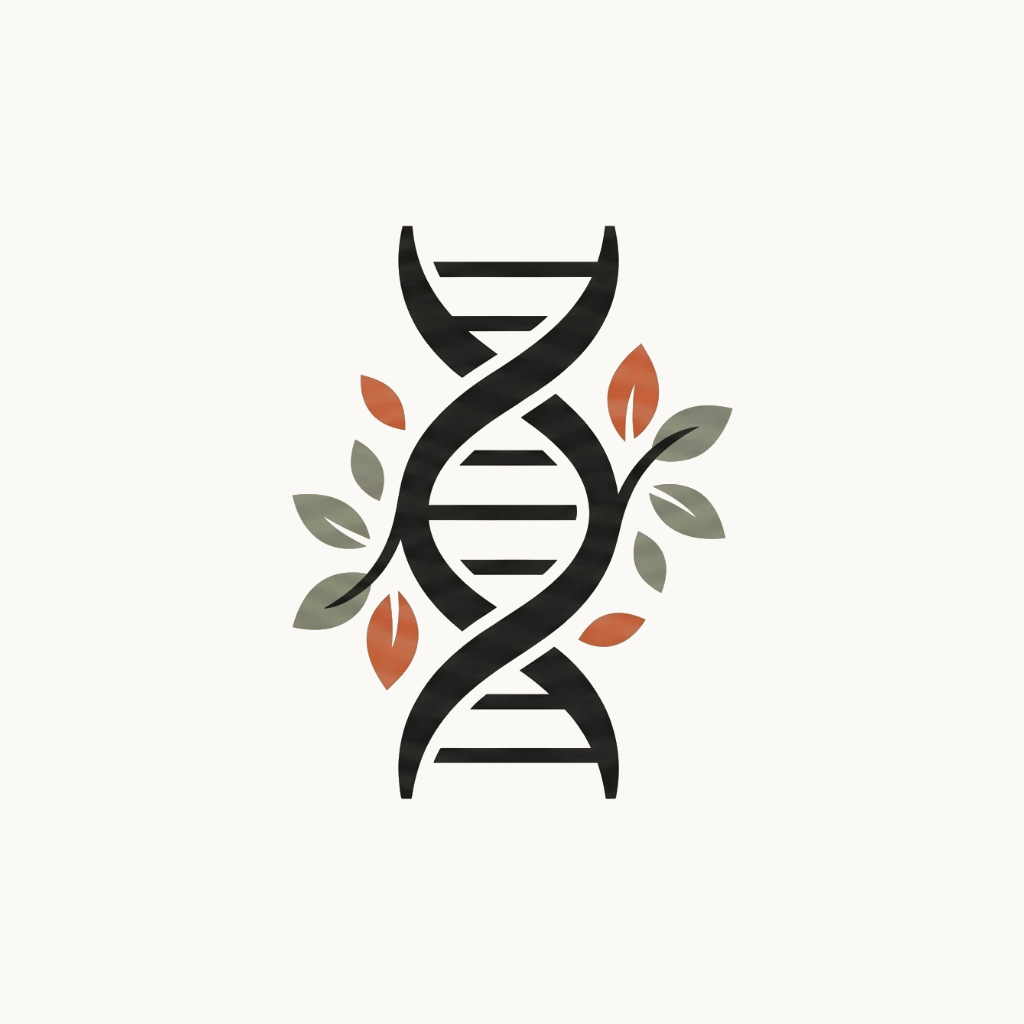
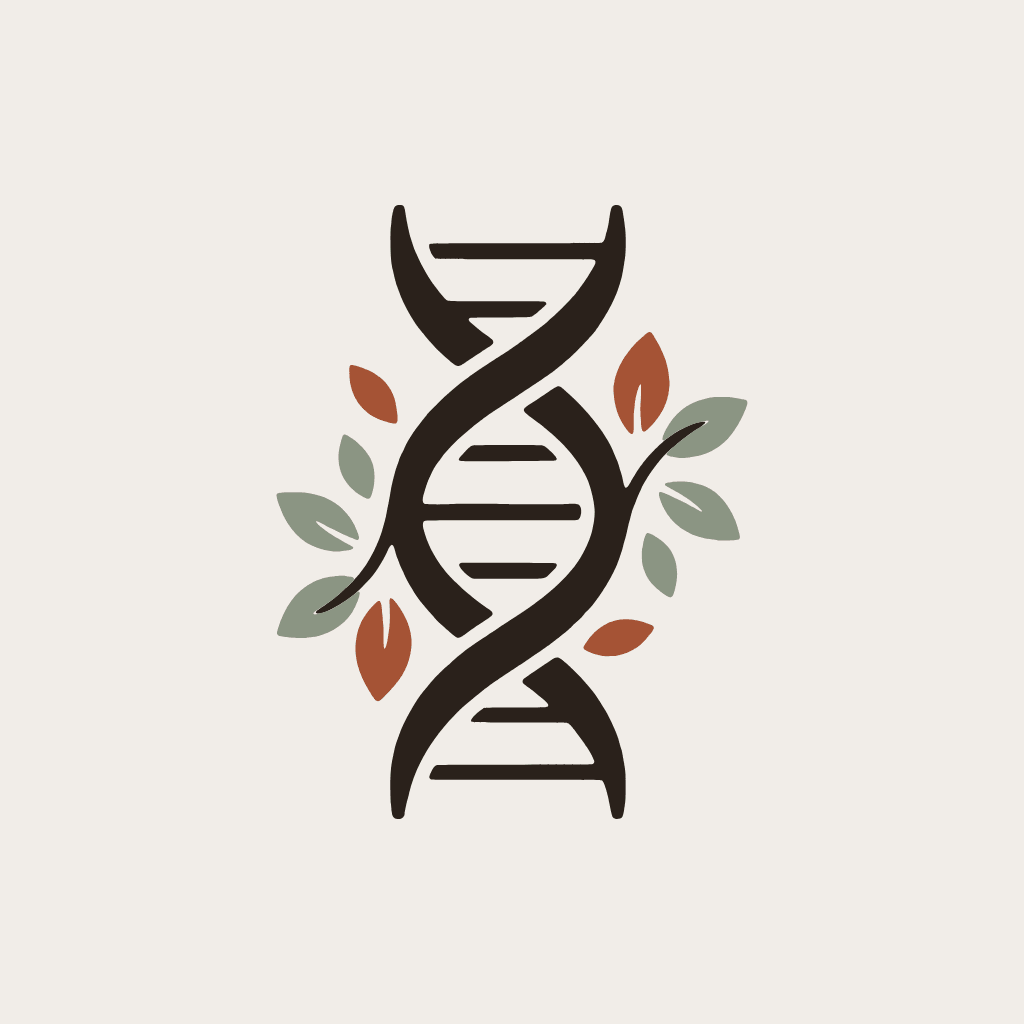
feat(brand): the kit's helix, drawing itself, on every surface — 1.10.0
The owner had Helix and Gital redrawn in Claude Design as one kit, so the
leaves, their placement and the small sizes agree everywhere. Every raster
Helix ships is rendered from its SVGs in Chromium at its exact size: the app
and Android icons, favicon, splash symbols, social card, README lockups, and
new web icons with a manifest and a touch icon.

The in-app mark is no longer a PNG: src/ui/brand-art.ts holds the kit's
paths and BrandMark masks them on react-native-svg, so the strands trace, the
rungs cross, the vines reach and the leaves open on the kit's timeline;
reduced motion draws it at rest. The art is its own chunk on the web, which
keeps the entry under its ceiling (3,345,452 of 3,348,000). The mails show
the hosted mark instead of a letter tile.

Changed region(s): [[0.25, 0.1875, 0.75, 0.8125]]

diff --git a/src/ui/brand-art.ts b/src/ui/brand-art.ts
@@ -1,0 +1,45 @@
+// Generated from the Claude Design kit's animation artifact (2026-09-28);
+// coordinates rounded to a tenth of a unit, which is a hundredth of a point at
+// any size the app draws. Regenerate from the kit, never by hand.
+
+export const VIEW_BOX = "23.54 24.86 468.6 611.38";
+
+/** The two strands; each carries the rung halves that leave it. */
+export const STRAND_A = "M202.1 184.8C198.4 183.1 182.9 169 177.2 162.2C176.2 161.1 174.6 159.3 173.7 158.2C172.8 157.2 170.9 154.9 169.5 153C168.1 151.1 166.1 148.7 165.2 147.6C159.1 140.2 149.5 122.9 146 112.9C145.5 111.4 144.4 108.5 143.7 106.5C142.9 104.5 141.9 101.1 141.4 98.9C140.9 96.7 140 93.1 139.5 90.9C137.8 83.8 137.3 79.6 137 69.9C136.8 62.3 136.9 48.7 137.3 46.9C137.4 46.2 137.6 44 137.8 42.1C138.1 38 138.5 35 139.5 31.3C140.7 26.3 142 25.1 146 25.1C150.3 25.2 150.9 26.1 152 34.4C152.3 36.4 152.9 40 153.4 42.2C153.8 44.5 154.6 48.3 155.1 50.8C155.6 53.2 156.4 56.2 156.9 57.6C157.4 59 158.3 61.8 158.9 63.8C160 67.4 160.2 68.1 163.6 75.6C168 85.8 175.8 99.3 180.6 105.2C181.4 106.2 182.8 108 183.6 109.1C185.7 112 190.9 118.1 192.1 119.1C194.1 120.9 190.8 120.8 241.6 120.8C266.8 120.8 288.1 120.9 289 121C291.4 121.3 292.5 122.5 291.8 124C291.3 124.8 282.9 132.3 280.4 134.1C276.1 137.2 279.8 136.9 246 137C217 137.1 216.6 137.1 215.8 137.6C214.1 138.6 214.5 140.1 216.9 142.2C223.2 147.7 227.7 151.2 234.3 156C241.1 160.9 241 162.5 233.5 167.2C232.2 168 229.2 170 226.8 171.5C224.3 173.1 221.1 175.2 219.5 176.2C217.9 177.2 215.1 179.1 213.1 180.5C206.6 185.2 204.6 185.9 202.1 184.8ZM142.6 635.8C139.3 635 138.4 632.9 137.7 625.1C137.6 623.2 137.4 620.9 137.2 620C137 618.6 136.8 610.8 136.7 602.6C136.7 590.2 137.5 581.5 139.8 572C140 570.8 140.6 568.3 141 566.3C141.5 564.1 142.3 561.1 143.2 558.9C143.9 556.8 145.1 553.5 145.9 551.4C150.4 539 161.6 519 169.3 509.5C170.2 508.5 172.8 505.3 175.1 502.4C179.6 496.7 188.9 487.2 192.5 484.4C193.5 483.6 195.3 482.1 196.4 481C200.5 477.1 211.7 467.9 215.8 465.2C217.2 464.2 219.4 462.6 220.8 461.6C222.1 460.6 225 458.6 227.4 457.1C229.7 455.6 232.5 453.8 233.5 453.1C236.4 451.3 245.8 445 248.2 443.3C249.4 442.5 251.5 441.1 252.9 440.2C267 431.4 282.8 420.2 291.7 412.8C292.8 411.9 294.8 410.2 296.2 409.1C306.4 400.5 311.2 395.6 319.8 385C326.9 376.4 334.8 360.6 337.3 350.3C341.1 334.6 341 326.7 337 310.9C335.2 303.6 333 297.7 330.5 293.2C329.7 291.9 328.4 289.6 327.6 288.1C322.6 278.6 311.8 265.5 302.4 257.3C300.9 256 297.8 253.3 295.6 251.3C290.7 246.7 287.6 244.3 280.2 238.9C266.5 228.8 266.5 229.2 277.8 221.8C279.7 220.6 285.8 216.5 291.3 212.8C304.9 203.6 303.8 203.8 309.2 208.3C325.3 221.8 343 242.1 350.9 255.9C351.3 256.6 352.3 258.2 353.1 259.5C354.8 262.2 358 268.7 359.3 272.1C359.8 273.4 360.9 275.9 361.7 277.7C362.7 279.7 363.6 282.2 364.1 284.2C364.6 285.9 365.5 289.2 366.2 291.3C366.9 293.5 367.8 296.8 368.1 298.6C370 308.2 371.6 308.7 375.8 300.9C376.5 299.5 377.8 297.2 378.7 295.8C379.7 294.3 381 292.1 381.6 290.9C382.9 288.6 388.5 281 391 278.2C391.7 277.4 393.2 275.6 394.3 274.4C397.2 271 407.6 260.9 410.4 258.7C423.3 249 435.8 242.7 445.6 241.1C452.4 240 451.5 241.6 442.1 248C434.2 253.2 425.6 259.7 420 264.5C419.1 265.3 417.5 266.6 416.5 267.4C406.7 275.3 391.3 296 386 308.4C385.3 309.9 384.2 312.5 383.4 314.1C382.7 315.8 381.7 318.1 381.3 319.3C380.9 320.5 380.1 322.6 379.5 323.9C378 327.3 377.4 329.2 376.1 334.2C375.5 336.7 374.6 340 374.1 341.8C373.7 343.5 372.9 346.8 372.4 349.2C371.9 351.7 371 355.3 370.4 357.2C369.8 359.2 368.9 362.3 368.5 364.1C367.4 368.9 363.5 380.5 361.6 384.6C357.8 393.1 351.8 403.9 347.4 410.1C346.1 411.9 344.2 414.7 343 416.4C339 422.1 335.9 425.9 332 429.6C331 430.6 329.5 432.3 328.6 433.4C326.1 436.4 324.6 437.8 322 440C320.6 441.1 319 442.6 318.3 443.4C316.7 445.3 311.4 450 307.2 453.2C305.4 454.7 302.4 457 300.6 458.5C298.9 459.9 296.4 461.7 295.1 462.6C293.9 463.4 292.3 464.6 291.5 465.1C289.6 466.5 283.4 470.8 274.6 476.7C270.6 479.4 266.4 482.3 265.1 483.1C263.9 484 261.4 485.6 259.6 486.7C257.8 487.8 253.7 490.6 250.5 492.8C247.3 495 243.6 497.5 242.4 498.3C238.1 501.2 228.9 508.1 224.6 511.6C210.1 523.4 207.8 525.4 199.5 533.9C178 555.8 161.1 584.9 155.5 610.1C155.1 612 154.3 615.2 153.7 617.2C152.8 620.5 151 629.4 151 630.5C151 634.4 147.1 636.9 142.6 635.8Z";
+export const STRAND_B = "M202.9 455.4C202.4 455.2 201.8 454.9 201.6 454.7C199.3 453 195.3 449.5 192.3 446.9C184.6 440 183.6 439 181.8 437C180.8 435.8 178.7 433.5 177.2 431.8C175.6 430.1 173.7 427.9 172.9 426.9C172.1 425.9 170.5 424 169.5 422.8C165.5 418.1 162 413.2 159.2 408.4C158.4 406.9 157.1 404.8 156.5 403.9C155.3 402.1 152 395.9 151.1 393.8C150.9 393.1 149.7 390.5 148.5 388C147.3 385.5 146 382.4 145.6 381.2C145.1 380.1 144.3 377.8 143.6 376.1C143 374.5 142 371.4 141.5 369.3C139.3 360.9 137.7 361.1 133.6 370C128.9 380.3 121 392.5 114.9 398.8C113.2 400.5 110.4 403.5 108.5 405.4C96 418.8 67.6 434.8 63 431C61.8 430.1 63 429 70.5 424C78.3 418.8 83.9 414.3 90 408.5C92.4 406.2 95.3 403.6 96.4 402.7C97.5 401.8 98.9 400.3 99.6 399.5C100.3 398.6 101.6 397 102.6 396C111.6 386.1 119.4 373.2 125.4 358.1C127.5 352.8 128 351.1 129.6 345.4C130.1 343.6 130.9 340.7 131.4 339C131.9 337.3 132.5 334.5 132.8 332.8C133.1 331 133.6 328.2 134 326.4C134.9 322.1 136 316.5 137.2 309.1C137.8 305.8 138.7 301.6 139.1 299.8C139.6 297.9 140.6 294.3 141.2 291.8C141.9 289.2 143.1 285.3 144 283.1C144.8 280.8 145.5 278.9 145.5 278.8C145.5 278.1 147.3 273.8 148.5 271.8C149.1 270.6 150.1 268.5 150.7 267.1C154.5 258.3 162.9 245.9 172.8 234.2C175.9 230.5 189.8 216.6 192.5 214.4C193.7 213.4 195.4 211.9 196.4 211C198.9 208.5 207.3 201.6 210 199.7C211.3 198.8 213.4 197.3 214.8 196.2C217.5 194.2 224.5 189.4 230.2 185.6C232.2 184.3 235.3 182.2 237.1 181C238.9 179.8 241.7 178.1 243.2 177.1C244.8 176.2 247.6 174.3 249.5 173.1C251.4 171.8 254 170.2 255.2 169.4C257.6 167.9 272.3 157.3 280.7 151C286.5 146.6 290.4 143.5 294.4 139.9C295.8 138.6 298.2 136.5 299.8 135.2C304.6 131 314.6 121 318.5 116.2C319.2 115.4 320.4 114 321.1 113.3C321.7 112.6 323.3 110.5 324.6 108.7C325.9 106.9 327.9 104.1 329 102.6C332 98.5 337.8 89.1 340.2 84.4C341.3 82.1 341.1 80.5 339.4 79.6C338.7 79.1 334.6 79.1 260.6 79C182.6 78.9 182.6 78.9 181.6 78.3C178.5 76.7 174.2 66.6 175.6 64.5C176.5 63 170.3 63.1 261.8 63C346.1 62.9 346.1 62.9 347.3 62.3C349.1 61.4 349.8 60.2 350.9 55.8C351.2 54.3 351.9 52 352.3 50.6C353.2 47.4 353.9 44.1 354.6 39C356.5 26.7 357 25.6 361 25.1C364.7 24.7 367 26.3 367.7 30C368.2 32.3 370 44.1 370 45C370 45.5 370.2 47.4 370.5 49.2C371.2 54.3 371.2 70.6 370.5 76C369.2 84.9 367.6 94.5 367 96.9C365.6 102.1 362.9 110.5 362 112.6C359.3 119 357.6 122.6 356.2 125.2C355.3 126.8 354.2 128.9 353.7 129.8C351.7 133.8 343.8 146.4 340.9 150.1C335.9 156.5 318.7 174.5 313.5 178.6C312.3 179.6 310.8 180.8 310.1 181.5C308.7 182.8 303.8 186.8 299.8 189.9C295.4 193.2 286.3 199.5 274.1 207.6C272.5 208.6 268.2 211.5 264.7 213.8C261.2 216.2 255.8 219.7 252.9 221.6C235.5 232.9 230.4 236.5 218.5 246C205.8 256.1 193.2 268.6 187.3 277C186.7 277.9 185.5 279.5 184.6 280.6C181.3 285 178.9 289.1 176.8 294C176 295.8 175 298.1 174.5 299C173.6 301 169.9 312.6 169.4 315.1C168.6 319.2 169 321.4 170.8 322.4C172 323.1 190.3 323.2 196.9 322.6C201.2 322.2 240.9 322.2 250.2 322.6C258.9 323 307.2 323 311.6 322.6C322.2 321.7 324.9 322.3 326.1 325.8C327.4 329.3 326.4 335.7 324.4 337.5C322.7 339 325.4 338.9 279.2 338.8C227.2 338.7 231.9 338.7 199.3 338.8C168.9 339 170.6 338.9 169.6 340.8C169 342 169 344.9 169.7 347.4C173.9 362.6 179.8 374.3 190.3 388C197.8 397.8 216.6 414.8 230.8 424.5C236.8 428.6 237.6 429.2 238.1 430.4C239.3 432.9 238.3 433.9 227.7 440.7C221.2 444.9 217.6 447.4 214.9 449.4C207.4 455.1 205.2 456.2 202.9 455.4ZM361.1 635.9C361 635.8 360.6 635.7 360.2 635.6C357.7 635.1 357.1 633.4 354.6 619.9C352.8 610 349.9 600.6 348.2 598.7C346.6 597 354.6 597.1 261.8 597C198.3 596.9 177.7 596.8 177.2 596.6C174.9 595.5 175 593.8 177.5 588.9C179.8 584.2 180.9 583 183.4 582.2C183.8 582 212.4 581.9 260.3 581.9C314.4 581.8 336.7 581.7 337.4 581.5C339 581.1 339.8 580 339.7 578.5C339.5 577.2 336.6 571.1 335 568.8C334.5 568 333.2 566 332.1 564.2C327.7 557.3 316.9 543.1 315 541.8C312.5 540 317.1 540.1 265.5 540C214.1 539.9 217.5 540 217.1 538.3C216.6 536.4 223 529.8 228.8 526.2C230.6 525.1 229.4 525.1 261.5 525C294.6 524.9 292.9 524.9 293.7 523.5C294.5 522 293.1 520.3 286.8 515.1C284.3 513.2 281.4 510.7 280.1 509.6C278.9 508.6 276.6 506.8 275 505.7C268.4 500.9 267.9 500.4 268.5 498.5C269 496.7 270.6 495.5 289.1 483.1C291.5 481.6 294.6 479.4 296.2 478.3C302.4 473.8 304.1 474.1 311.8 481.1C313.1 482.3 315.2 484.3 316.5 485.4C322.6 490.7 334.1 503.2 338.5 509.5C339.7 511.1 341.5 513.6 342.5 515C344.2 517.4 348.3 523.8 350.6 527.8C353.1 531.9 358.2 542.3 359.9 546.5C362.9 553.8 363.4 555.2 364.2 558.4C364.6 560 365.4 562.8 366 564.6C367.4 569 367.5 569.5 369.3 580.4C370.9 589.9 370.9 589.9 370.9 603.2C370.9 614.9 370.8 617 370.4 619.6C370.2 621.3 369.7 624.5 369.4 626.8C368.3 633.5 367.7 634.9 365.2 635.6C364 636 361.8 636.1 361.1 635.9Z";
+/** The two rungs that touch neither strand's outline. */
+export const RUNGS_SOLO = "M207.2 279.8C203.5 279 204.1 277.7 210.6 271C216.1 265.5 216.8 264.9 218.9 264.4C221 263.8 285.8 263.8 288.1 264.3C290.4 264.9 292.1 266.1 296.7 270.6C302.5 276.3 303.5 278.1 301.2 279.4C300.4 279.9 209.8 280.3 207.2 279.8ZM218.8 396.6C214.7 395.5 205.2 386.1 205.2 383.2C205.2 382.2 206.5 381.3 208.1 381.1C211.2 380.8 300.3 381.1 301.1 381.5C303.9 382.9 302.4 385.7 295.3 392.1C289.6 397.4 293.8 396.9 254.3 396.9C224.8 397 219.9 396.9 218.8 396.6Z";
+
+export type Stroke = { d: string; width: number; length: number };
+
+/** Left strand's mask draws strand A, the right one strand B. */
+export const STRAND_DRAW: readonly Stroke[] = [{ d: "M138 8C138 13.3 137.7 29.7 138 40C138.3 50.3 137.7 58.3 140 70C142.3 81.7 146.2 97.5 152 110C157.8 122.5 165.3 134.2 175 145C184.7 155.8 199.2 166.7 210 175C220.8 183.3 229.2 186.7 240 195C250.8 203.3 261.7 213.8 275 225C288.3 236.2 307.8 249.5 320 262C332.2 274.5 341.3 287 348 300C354.7 313 359.3 326.7 360 340C360.7 353.3 357.8 367.5 352 380C346.2 392.5 336.2 404.2 325 415C313.8 425.8 300.8 434.5 285 445C269.2 455.5 246.7 466.8 230 478C213.3 489.2 197 500 185 512C173 524 164.5 537 158 550C151.5 563 148.5 577.5 146 590C143.5 602.5 143.3 615 143 625C142.7 635 143.8 645.8 144 650", width: 96, length: 827 }, { d: "M357 8C357.2 13.3 357.5 29.7 358 40C358.5 50.3 361.3 58 360 70C358.7 82 355.7 98.7 350 112C344.3 125.3 336 138.7 326 150C316 161.3 304.3 169.5 290 180C275.7 190.5 255.5 202.2 240 213C224.5 223.8 209.2 233.8 197 245C184.8 256.2 174.5 267.2 167 280C159.5 292.8 153.8 308.3 152 322C150.2 335.7 152.7 349.3 156 362C159.3 374.7 164.7 387 172 398C179.3 409 188.7 418 200 428C211.3 438 225.8 448 240 458C254.2 468 271.3 478.5 285 488C298.7 497.5 312 505 322 515C332 525 339.2 535.5 345 548C350.8 560.5 354.8 577.2 357 590C359.2 602.8 357.8 615 358 625C358.2 635 358 645.8 358 650", width: 96, length: 818 }];
+/** Where the strands' masks stay dark, so a rung draws only with its own stroke. */
+export const RUNG_GAPS: readonly (readonly [number, number, number, number])[] = [[172,58.5,170,23],[192,117,94,23],[200,259.5,106,25],[171,317.5,159,24],[200,375.5,106,27],[195,520.5,110,23],[175,577.5,166,23]];
+export const RUNG_DRAW: readonly Stroke[] = [
+  { d: "M172 70H342", width: 24, length: 170 },
+  { d: "M192 128.5H286", width: 24, length: 94 },
+  { d: "M200 272H306", width: 26, length: 106 },
+  { d: "M171 329.5H330", width: 25, length: 159 },
+  { d: "M200 389H306", width: 28, length: 106 },
+  { d: "M195 532H305", width: 24, length: 110 },
+  { d: "M175 589H341", width: 24, length: 166 },
+];
+/** The left vine is drawn from strand B, the right one from strand A. */
+export const VINE_DRAW: readonly Stroke[] = [{ d: "M152 345C151 346.2 149.7 346.2 146 352C142.3 357.8 136.8 371.2 130 380C123.2 388.8 113.3 398 105 405C96.7 412 88.3 416.8 80 422C71.7 427.2 59.2 433.7 55 436", width: 44, length: 136 }, { d: "M352 335C353.7 332.2 357 326.3 362 318C367 309.7 374 294.3 382 285C390 275.7 400.3 268.5 410 262C419.7 255.5 431.3 250 440 246C448.7 242 458.3 239.3 462 238", width: 44, length: 152 }];
+
+export type Leaf = { d: string; fill: "clay" | "sage"; pivot: readonly [number, number]; turn: 1 | -1 };
+
+/** In the order they open; `turn` is the side they swing in from. */
+export const LEAVES: readonly Leaf[] = [
+  { d: "M348.9 473.8C348.6 473.8 346.7 473.4 344.8 473C340 472 336.6 470.8 333 469C328 466.4 327.9 465.9 331.5 460.6C346.4 438.2 368.5 431.8 394.6 442.2C401.2 444.8 400.8 446.1 390.2 458.1C383.3 465.9 373.4 471.3 361.9 473.6C360.1 474 350.3 474.1 348.9 473.8Z", fill: "clay", pivot: [328,466.4], turn: -1 },
+  { d: "M122.6 518C121.3 517.1 120.6 516.1 118.2 512.5C104.8 491.8 100.1 474.9 102.8 456.8C104.8 443.7 110 433.7 120 423.4C124 419.3 124.8 418.8 126.4 419.4C127.3 419.8 128.5 425.3 128.5 429.2C128.5 430 128.7 431.6 128.9 432.9C129.1 434.1 129.2 436.1 129.3 437.2C129.3 438.4 129.4 440.5 129.6 441.9C129.9 443.6 130 446.8 130 452.6C130 457.2 130.1 462 130.2 463.3C130.8 469.8 132.7 466.1 134.4 455.1C134.7 452.8 135.2 449.5 135.5 447.8C135.8 446 136.1 442.3 136.2 439.5C136.4 433.5 136.4 433.9 136.1 425C135.9 417 136 416.2 137.5 416.3C140.4 416.3 150.2 430.8 153.9 440.4C158.1 451.4 158.9 460.4 156.8 471.2C153.5 487.7 146.9 498.5 130.3 514.5C125.7 519 124.6 519.5 122.6 518Z", fill: "clay", pivot: [140.4,416.3], turn: 1 },
+  { d: "M40.8 455.7C40.1 455.6 38.3 455.4 36.6 455.3C24.1 454.2 22.9 453.4 24.5 448.1C31.6 424.2 43.2 408.6 60.2 400.2C65.5 397.5 74.1 395 78.1 395C78.6 395 80.1 394.8 81.2 394.5C84 393.9 91 393.8 93.5 394.4C94.4 394.6 96 394.9 97.1 395C102.2 395.6 101.8 398.6 96 403C95 403.8 92.3 406.3 90 408.5C87.7 410.7 85.2 413.1 84.4 413.7C83.5 414.3 82.3 415.3 81.6 415.9C78.2 418.8 69.4 424.9 64.8 427.6C61.2 429.7 59.4 431.7 60.7 432.2C62.9 433 75.5 429.1 80.5 426C81.6 425.3 83.2 424.4 84.2 423.9C87.5 422.2 97.5 415.4 101.9 411.7C105.3 408.8 106.9 409.4 106.1 413.1C105.1 418.1 101.3 426.7 97.9 431.7C89.6 444.1 73 453.8 57.6 455.1C56.7 455.2 54.9 455.4 53.8 455.6C51.4 456 42.7 456.1 40.8 455.7Z", fill: "sage", pivot: [102.2,395.6], turn: 1 },
+  { d: "M78.6 369.5C58.6 366.9 44.9 358.2 34.3 341.2C28.9 332.7 22.4 315.4 23.7 313C24.6 311.4 27.8 311 39.8 311C49.7 311 50.1 311 57.1 312.2C79 315.7 96.3 329.5 103.7 349.6C105.7 354.8 106 356.7 105.1 357.8C104.2 358.8 104 358.7 90.4 352.8C87.1 351.3 73.4 344.6 67.5 341.4C62.6 338.8 61.6 339.3 64.7 342.7C67.2 345.4 77.3 352.7 83.4 356.2C89.2 359.5 93 361.6 95.7 363C99.7 365 100.6 366 99.4 367.1C98.4 368 96.4 368.5 88.1 369.5C86.1 369.8 80.7 369.8 78.6 369.5Z", fill: "sage", pivot: [100.6,366], turn: 1 },
+  { d: "M413.3 414.8C409.8 413.1 402.5 407.5 398.7 403.6C393 397.7 390.2 392.4 387.8 383.5C386.9 380.1 386.7 370.1 387.4 366.9C387.6 365.9 387.9 364.2 388.1 363C389.1 357.1 391 351.9 392.4 351.4C394 350.7 399.8 353.8 406.5 358.9C420.9 369.9 425.6 388.2 419.5 409.1C417.6 415.3 416.6 416.3 413.3 414.8Z", fill: "sage", pivot: [394,350.7], turn: -1 },
+  { d: "M110.9 316.1C94.8 307.7 85.2 293.2 85.2 276.8C85.2 271.1 85.9 266.7 88 258.9C89.6 253.2 90.4 252.5 94.1 254.5C104.6 260 115.8 272.4 119 281.9C121.7 290 121.7 301.7 118.9 310.9C116.7 318.1 115.9 318.6 110.9 316.1Z", fill: "sage", pivot: [115.9,318.6], turn: 1 },
+  { d: "M462 358.6C461.1 358.4 459.1 358.2 457.6 358C438.3 356.2 421.4 346.5 411.9 332C407.9 325.8 404 316.2 404 312.6C404 310.2 405.3 310 409.2 311.7C410.4 312.3 412.5 313.2 413.9 313.7C415.2 314.3 417 315.1 417.8 315.5C418.6 315.9 420.1 316.6 421.1 317C423.4 317.9 431.4 321.9 433.6 323.2C434.4 323.7 436.2 324.8 437.6 325.5C439 326.2 440.8 327.3 441.7 327.8C448.8 332.1 448.5 330 441.1 323.7C435.1 318.5 424.4 311.6 416.5 307.6C410.1 304.4 409.2 303.7 410.3 302.4C411.9 300.3 428.6 299.3 436.2 300.9C452.4 304.2 462.3 310.4 471 322.5C477.1 331.1 481.3 340.5 483.9 351.6C485.2 357.2 485 357.6 480.4 358.5C477.6 359.1 464.8 359.2 462 358.6Z", fill: "sage", pivot: [404,310.2], turn: -1 },
+  { d: "M423 276.5C413.5 275.4 410.7 274.3 411.8 272.1C412.3 271.3 415.3 268.2 417 267C417.6 266.5 419 265.3 420.1 264.4C423 261.9 429.2 257 431.8 255.2C432.4 254.8 433.4 254 434 253.5C435.4 252.3 443.5 246.9 446 245.5C456.4 239.4 455.9 238.3 444 241.3C437.3 242.9 423.7 249 419.4 252.2C418.4 253 416.7 254.2 415.5 255C414.3 255.8 412.6 257 411.7 257.7C406.6 261.6 406.1 258.2 410.6 249.3C419 232.6 431.9 222.1 449.4 218C457.5 216.1 457.1 216.1 466.6 216.1C474.1 216.1 475.6 216.2 477.2 216.6C478.2 216.8 479.4 217 479.9 217C480.4 217 481.9 217.2 483.2 217.5C484.5 217.8 486.7 218.2 487.9 218.4C493.3 219.3 493.4 221.3 488.3 232.7C476.1 259.8 459.9 273 435.1 276C433.9 276.2 432.1 276.4 431.1 276.5C429.1 276.8 425.3 276.8 423 276.5Z", fill: "sage", pivot: [410.7,274.3], turn: -1 },
+  { d: "M375.7 252.5C374.1 251.5 370.5 246.7 367.8 242.2C362.2 232.8 359.6 223.2 358.8 209.9C358.4 202.7 361.7 190.6 366.3 182.4C370.8 174.3 378.4 164.4 384 159.6C385.5 158.4 387.7 156.3 389.1 155.1C394.4 150.2 395.9 150.3 399 155.6C399.7 156.9 401.1 159.3 402.2 161.1C406.4 168.4 410.4 177.4 411.7 182.9C412.7 186.7 414 193.8 414 195.3C414 195.9 414.2 197.7 414.4 199.4C414.7 201.8 414.7 202.8 414.5 204.6C414.3 205.9 414.1 208 414 209.4C412.9 221.5 406.1 235.1 396 245.3C391.2 250.1 389.8 251.1 388.2 250.2C387.2 249.7 386.2 245.6 386.2 241.5C386.2 240.4 386.1 238.3 385.9 236.6C385.5 233.2 385.4 225.7 385.8 222.5C386.1 219.9 386.5 205.1 386.2 204.2C385.2 200.1 380.7 214.8 379.9 224.6C379.8 225.7 379.6 227.6 379.4 228.7C379.1 230.3 379 233.2 379 239.8C379 250.2 378.9 251.5 378 252.4C377.3 253.1 376.6 253.2 375.7 252.5Z", fill: "clay", pivot: [376.6,253.2], turn: -1 },
+  { d: "M138.6 242.1C115.4 237.9 100.3 223.2 96.7 201.4C96 197.2 95.7 187 96.3 185.7C97.2 183.5 99.8 183.8 108.5 186.9C117.4 190.1 121.8 192.6 129.3 198.9C133.8 202.6 139.2 211.5 141.2 218.5C142.4 222.8 144 233.1 144 236.9C144 242.1 143.2 242.9 138.6 242.1Z", fill: "clay", pivot: [143.2,242.9], turn: 1 },
+];

diff --git a/src/ui/brand.tsx b/src/ui/brand.tsx
@@ -1,58 +1,164 @@
-/** Helix brand mark — the botanical DNA-helix symbol, theme-aware. Uses the
- *  charcoal artwork on light surfaces and the cream artwork on dark / gradient. */
+/**
+ * Helix's mark, the botanical helix, drawn as vectors so it is sharp at any
+ * size and can draw itself on the brand kit's timeline (2026-09-28): the two
+ * strands trace down under widening masks, the rungs cross them in turn, the
+ * vines reach out, then the leaves open from their stems one by one. Once the
+ * intro ends every mask is dropped, so the resting mark is the kit's exact
+ * drawing. The ink follows the theme and the clay leaves the palette's
+ * accent, as the kit's dark, petrol and servi marks do; `onGradient` inks it
+ * for a dark ground whatever the scheme. Reduced motion draws it at rest.
+ *
+ * The drawing, 18 KB of path data, is its own chunk on the web: the entry had
+ * 14 KB of room left under its ceiling (measured 2026-09-28), and a mark that
+ * draws itself in anyway loses nothing by arriving a frame later.
+ */
 
-import { View } from "react-native";
-import { Image } from "expo-image";
-import { useTheme } from "./theme";
+import { useEffect, useId, useState } from "react";
+import { Easing, View } from "react-native";
+import Svg, { Defs, G, Mask, Path, Rect } from "react-native-svg";
 
-const SYMBOL_LIGHT = require("../../assets/brand/symbol-light-t.png");
-const SYMBOL_DARK = require("../../assets/brand/symbol-dark-t.png");
+import type { Stroke } from "./brand-art";
+import { useReducedMotion } from "./motion";
+import { PALETTES, useTheme } from "./theme";
+
+/** The drawing's width over its height, known before its chunk arrives. */
+export const MARK_ASPECT = 468.6 / 611.38;
+
+type Art = typeof import("./brand-art");
+let art: Art | undefined;
+let pending: Promise<Art> | undefined;
+
+function useArt(): Art | undefined {
+  const [, setArrived] = useState(art !== undefined);
+  useEffect(() => {
+    if (art) return;
+    let live = true;
+    void (pending ??= import("./brand-art").then((module) => (art = module))).then(() => live && setArrived(true));
+    return () => {
+      live = false;
+    };
+  }, []);
+  return art;
+}
+
+const easeOut = Easing.bezier(0, 0, 0.58, 1);
+const SAGE = "#8B9583";
+/** What a mask shows through, and what it hides. */
+const REVEAL = "#FFFFFF";
+const HIDE = "#000000";
+
+/** Milliseconds from the first frame, as the kit's timing table gives them. */
+const TIMELINE = {
+  strands: { at: 0, for: 900 },
+  rungs: { at: 180, every: 60, for: 300 },
+  vines: { at: 420, for: 360 },
+  leaves: { at: 900, every: 70, for: 220, turn: 8 },
+} as const;
 
 /**
- * The artwork's own proportions, and why `size` is a HEIGHT.
- *
- * The mark is taller than it is wide. It used to be delivered on a 1024x1024
- * canvas with the ink centred inside it — measured, 606x789 of ink with 210px
- * of transparency down each side and 118 across the top — and `contentFit`
- * honoured that transparency as though it were part of the drawing. A caller
- * asking for 40 got a mark 30.8pt tall sitting in a 40pt box, so it read small
- * against the heading it leads and carried 9pt of invisible margin into the
- * gap beside it.
- *
- * The canvas is now the mark: the padding is cropped, losslessly — every ink
- * pixel is byte-identical and the resolution is untouched at 606x789, which is
- * still five times what a 48pt mark needs on a 3x display. So the box can hold
- * the real ratio, `size` can mean the height it always looked like it meant,
- * and the width follows instead of being guessed at.
+ * Milliseconds into the intro, or null once it is over. React state rather
+ * than an animated value: a mask's stroke is not a prop the native driver can
+ * reach, and under two seconds of re-renders on one small tree costs nothing.
  */
-const MARK_ASPECT = 606 / 789;
+function useIntro(duration: number, ready: boolean): number | null {
+  const reducedMotion = useReducedMotion();
+  const [elapsed, setElapsed] = useState<number | null>(0);
+  useEffect(() => {
+    if (reducedMotion || !ready) return;
+    const start = Date.now();
+    let frame = 0;
+    const tick = () => {
+      const now = Date.now() - start;
+      if (now >= duration) return setElapsed(null);
+      setElapsed(now);
+      frame = requestAnimationFrame(tick);
+    };
+    frame = requestAnimationFrame(tick);
+    return () => cancelAnimationFrame(frame);
+  }, [reducedMotion, duration, ready]);
+  return reducedMotion ? null : elapsed;
+}
+
+function DrawMask({ id, stroke, drawn, gaps }: { id: string; stroke: Stroke; drawn: number; gaps?: Art["RUNG_GAPS"] }) {
+  return (
+    <Mask id={id}>
+      <Path
+        d={stroke.d}
+        fill="none"
+        stroke={REVEAL}
+        strokeWidth={stroke.width}
+        strokeLinejoin="round"
+        strokeDasharray={[stroke.length, stroke.length]}
+        strokeDashoffset={stroke.length * (1 - drawn)}
+      />
+      {gaps?.map(([x, y, width, height]) => <Rect key={y} x={x} y={y} width={width} height={height} fill={HIDE} />)}
+    </Mask>
+  );
+}
 
 export function BrandMark({ size = 56, onGradient = false }: { size?: number; onGradient?: boolean }) {
-  const { scheme } = useTheme();
-  const source = onGradient || scheme === "dark" ? SYMBOL_DARK : SYMBOL_LIGHT;
+  const { palette, paletteId } = useTheme();
+  const drawing = useArt();
+  const { leaves } = TIMELINE;
+  const elapsed = useIntro(leaves.at + leaves.every * ((drawing?.LEAVES.length ?? 1) - 1) + leaves.for, drawing !== undefined);
+  // `useId` answers with colons, which a `url(#…)` reference cannot hold.
+  const id = useId().replace(/[^a-zA-Z0-9]/g, "");
+  const progress = (start: number, duration: number) => (elapsed === null ? 1 : easeOut(Math.min(1, Math.max(0, (elapsed - start) / duration))));
+  const ink = onGradient ? PALETTES[paletteId].dark.textStrong : palette.textStrong;
+  const clay = PALETTES[paletteId].light.primary;
   const width = Math.round(size * MARK_ASPECT);
+  const box = { width, height: size };
+  const hidden = { "aria-hidden": true, accessible: false, accessibilityElementsHidden: true, importantForAccessibility: "no-hide-descendants", pointerEvents: "none" } as const;
+  if (!drawing) return <View {...hidden} style={box} />;
+  const { LEAVES, RUNG_DRAW, RUNG_GAPS, RUNGS_SOLO, STRAND_A, STRAND_B, STRAND_DRAW, VIEW_BOX, VINE_DRAW } = drawing;
+  const { strands, rungs, vines } = TIMELINE;
+  const tracing = elapsed !== null;
   return (
-    // The hiding lives on a wrapper because it cannot live on the image.
-    // `expo-image` renders its own web `<img>` and forwards only `alt`, `src`
-    // and `style` — every accessibility prop passed to it is dropped, so the
-    // mark's `accessible={false}` never reached the DOM and the art sat in the
-    // accessibility tree as an unnamed node. `aria-hidden` on an ancestor
-    // removes its subtree per ARIA, and the two native props do the same on
-    // iOS and Android.
-    <View
-      aria-hidden
-      accessible={false}
-      accessibilityElementsHidden
-      importantForAccessibility="no-hide-descendants"
-      pointerEvents="none"
-      style={{ width, height: size }}
-    >
-      <Image
-        alt=""
-        source={source}
-        style={{ width, height: size }}
-        contentFit="contain"
-      />
+    <View {...hidden} style={box}>
+      <Svg width={width} height={size} viewBox={VIEW_BOX}>
+        {tracing && (
+          <Defs>
+            {STRAND_DRAW.map((stroke, i) => <DrawMask key={i} id={`${id}s${i}`} stroke={stroke} drawn={progress(strands.at, strands.for)} gaps={RUNG_GAPS} />)}
+            {RUNG_DRAW.map((stroke, i) => <DrawMask key={i} id={`${id}r${i}`} stroke={stroke} drawn={progress(rungs.at + rungs.every * i, rungs.for)} />)}
+            {VINE_DRAW.map((stroke, i) => <DrawMask key={i} id={`${id}v${i}`} stroke={stroke} drawn={progress(vines.at, vines.for)} />)}
+          </Defs>
+        )}
+        {tracing ? (
+          <>
+            <Path d={STRAND_A} fill={ink} mask={`url(#${id}s0)`} />
+            <Path d={STRAND_B} fill={ink} mask={`url(#${id}s1)`} />
+            {RUNG_DRAW.map((_, i) => (
+              <G key={i} mask={`url(#${id}r${i})`}>
+                <Path d={STRAND_A} fill={ink} />
+                <Path d={STRAND_B} fill={ink} />
+                <Path d={RUNGS_SOLO} fill={ink} />
+              </G>
+            ))}
+            <Path d={STRAND_B} fill={ink} mask={`url(#${id}v0)`} />
+            <Path d={STRAND_A} fill={ink} mask={`url(#${id}v1)`} />
+          </>
+        ) : (
+          <>
+            <Path d={STRAND_A} fill={ink} />
+            <Path d={STRAND_B} fill={ink} />
+            <Path d={RUNGS_SOLO} fill={ink} />
+          </>
+        )}
+        {LEAVES.map((leaf, i) => {
+          const open = progress(leaves.at + leaves.every * i, leaves.for);
+          if (open === 0) return null;
+          const [x, y] = leaf.pivot;
+          return (
+            <Path
+              key={i}
+              d={leaf.d}
+              fill={leaf.fill === "clay" ? clay : SAGE}
+              fillRule="evenodd"
+              transform={open === 1 ? undefined : `translate(${x} ${y}) rotate(${leaf.turn * leaves.turn * (1 - open)}) scale(${open}) translate(${-x} ${-y})`}
+            />
+          );
+        })}
+      </Svg>
     </View>
   );
 }

diff --git a/supabase/functions/send-feedback/index.ts b/supabase/functions/send-feedback/index.ts
@@ -244,7 +244,7 @@ Deno.serve(async (request: Request): Promise<Response> => {
       <table role="presentation" width="100%" cellspacing="0" cellpadding="0" border="0" style="max-width:600px;">
         <tr><td align="center" style="padding:0 0 18px 0;">
           <table role="presentation" cellspacing="0" cellpadding="0" border="0"><tr>
-            <td width="36" height="36" align="center" valign="middle" style="width:36px; height:36px; background-color:#A55335; border-radius:10px; font-family:${serif}; font-size:20px; font-weight:600; line-height:36px; color:#FBF4EF;">H</td>
+            <td width="36" height="36" valign="middle" style="width:36px; height:36px;"><img src="https://topraksv.github.io/helix/icons/email-mark.png" width="36" height="36" alt="" style="display:block; width:36px; height:36px; border:0; border-radius:10px;"></td>
             <td style="padding-left:10px; font-family:${serif}; font-size:20px; font-weight:600; color:#2A211B;">Helix <span style="font-family:${font}; font-size:13px; font-weight:500; color:#6D6157;">· Geri bildirim</span></td>
           </tr></table>
         </td></tr>

diff --git a/supabase/templates/confirmation.html b/supabase/templates/confirmation.html
@@ -37,7 +37,7 @@
             <td align="center" style="padding:0 0 20px 0;">
               <table role="presentation" cellspacing="0" cellpadding="0" border="0">
                 <tr>
-                  <td width="40" height="40" align="center" valign="middle" style="width:40px; height:40px; background-color:#A55335; border-radius:12px; font-family:'IBM Plex Serif', Georgia, 'Times New Roman', serif; font-size:22px; font-weight:600; line-height:40px; color:#FBF4EF;">H</td>
+                  <td width="40" height="40" valign="middle" style="width:40px; height:40px;"><img src="https://topraksv.github.io/helix/icons/email-mark.png" width="40" height="40" alt="" style="display:block; width:40px; height:40px; border:0; border-radius:12px;"></td>
                   <td style="padding-left:10px; font-family:'IBM Plex Serif', Georgia, 'Times New Roman', serif; font-size:22px; font-weight:600; color:#2A211B; letter-spacing:0.2px;">Helix</td>
                 </tr>
               </table>

diff --git a/supabase/templates/email_change.html b/supabase/templates/email_change.html
@@ -37,7 +37,7 @@
             <td align="center" style="padding:0 0 20px 0;">
               <table role="presentation" cellspacing="0" cellpadding="0" border="0">
                 <tr>
-                  <td width="40" height="40" align="center" valign="middle" style="width:40px; height:40px; background-color:#A55335; border-radius:12px; font-family:'IBM Plex Serif', Georgia, 'Times New Roman', serif; font-size:22px; font-weight:600; line-height:40px; color:#FBF4EF;">H</td>
+                  <td width="40" height="40" valign="middle" style="width:40px; height:40px;"><img src="https://topraksv.github.io/helix/icons/email-mark.png" width="40" height="40" alt="" style="display:block; width:40px; height:40px; border:0; border-radius:12px;"></td>
                   <td style="padding-left:10px; font-family:'IBM Plex Serif', Georgia, 'Times New Roman', serif; font-size:22px; font-weight:600; color:#2A211B; letter-spacing:0.2px;">Helix</td>
                 </tr>
               </table>

diff --git a/supabase/templates/recovery.html b/supabase/templates/recovery.html
@@ -37,7 +37,7 @@
             <td align="center" style="padding:0 0 20px 0;">
               <table role="presentation" cellspacing="0" cellpadding="0" border="0">
                 <tr>
-                  <td width="40" height="40" align="center" valign="middle" style="width:40px; height:40px; background-color:#A55335; border-radius:12px; font-family:'IBM Plex Serif', Georgia, 'Times New Roman', serif; font-size:22px; font-weight:600; line-height:40px; color:#FBF4EF;">H</td>
+                  <td width="40" height="40" valign="middle" style="width:40px; height:40px;"><img src="https://topraksv.github.io/helix/icons/email-mark.png" width="40" height="40" alt="" style="display:block; width:40px; height:40px; border:0; border-radius:12px;"></td>
                   <td style="padding-left:10px; font-family:'IBM Plex Serif', Georgia, 'Times New Roman', serif; font-size:22px; font-weight:600; color:#2A211B; letter-spacing:0.2px;">Helix</td>
                 </tr>
               </table>

diff --git a/tests/domain/brand-domains.test.ts b/tests/domain/brand-domains.test.ts
@@ -234,9 +234,11 @@ describe("the app's own brand mark", () => {
     });
   }
 
-  it("uses the ratio the artwork actually has", () => {
+  it("renders the splash symbol, and sizes the drawn mark, at the drawing's own ratio", async () => {
     const bounds = inkBounds("assets/brand/symbol-light-t.png");
-    const source = readFileSync(join(root, "src/ui/brand.tsx"), "utf8");
-    expect(source).toContain(`const MARK_ASPECT = ${bounds.width} / ${bounds.height};`);
+    const { VIEW_BOX } = await import("../../src/ui/brand-art");
+    const [, , width, height] = VIEW_BOX.split(" ").map(Number);
+    expect(readFileSync(join(root, "src/ui/brand.tsx"), "utf8")).toContain(`export const MARK_ASPECT = ${width} / ${height};`);
+    expect(bounds.width / bounds.height).toBeCloseTo(width! / height!, 2);
   });
 });

diff --git a/src/app/+html.tsx b/src/app/+html.tsx
@@ -100,6 +100,10 @@ export default function Root({ children }: PropsWithChildren) {
             that does not run JavaScript — which is most link-preview bots —
             saw a page with no title at all. */}
         <title>{tr.meta.title}</title>
+        {/* Installing to the home screen: the brand kit's icons, with the
+            maskable one drawn inside the safe zone a launcher never cuts. */}
+        <link rel="manifest" href="/helix/manifest.webmanifest" />
+        <link rel="apple-touch-icon" href="/helix/icons/apple-touch-icon.png" />
         <meta
           name="description"
           content={tr.meta.description}

diff --git a/CHANGELOG.md b/CHANGELOG.md
@@ -6,6 +6,14 @@ defterinde yazılıdır ve bu depoya dahil değildir.
 
 Notlar kısa tutulur: ne değişti, tek cümle. Sebebi ve ölçümü commit'te.
 
+## 1.10.0
+
+### Minor Changes
+
+- Yeni Helix işareti: yaprakları ve yerleşimi her boyutta aynı, favicon'da da okunaklı.
+- İşaret açılırken kendini çiziyor: sarmal iniyor, basamaklar geçiyor, yapraklar açılıyor. "Hareketi azalt" açıksa sabit.
+- Web uygulaması ana ekrana kendi simgesiyle ekleniyor. Bağlantı kartı da e-postalar da yeni işareti taşıyor.
+
 ## 1.9.1
 
 ### Patch Changes
